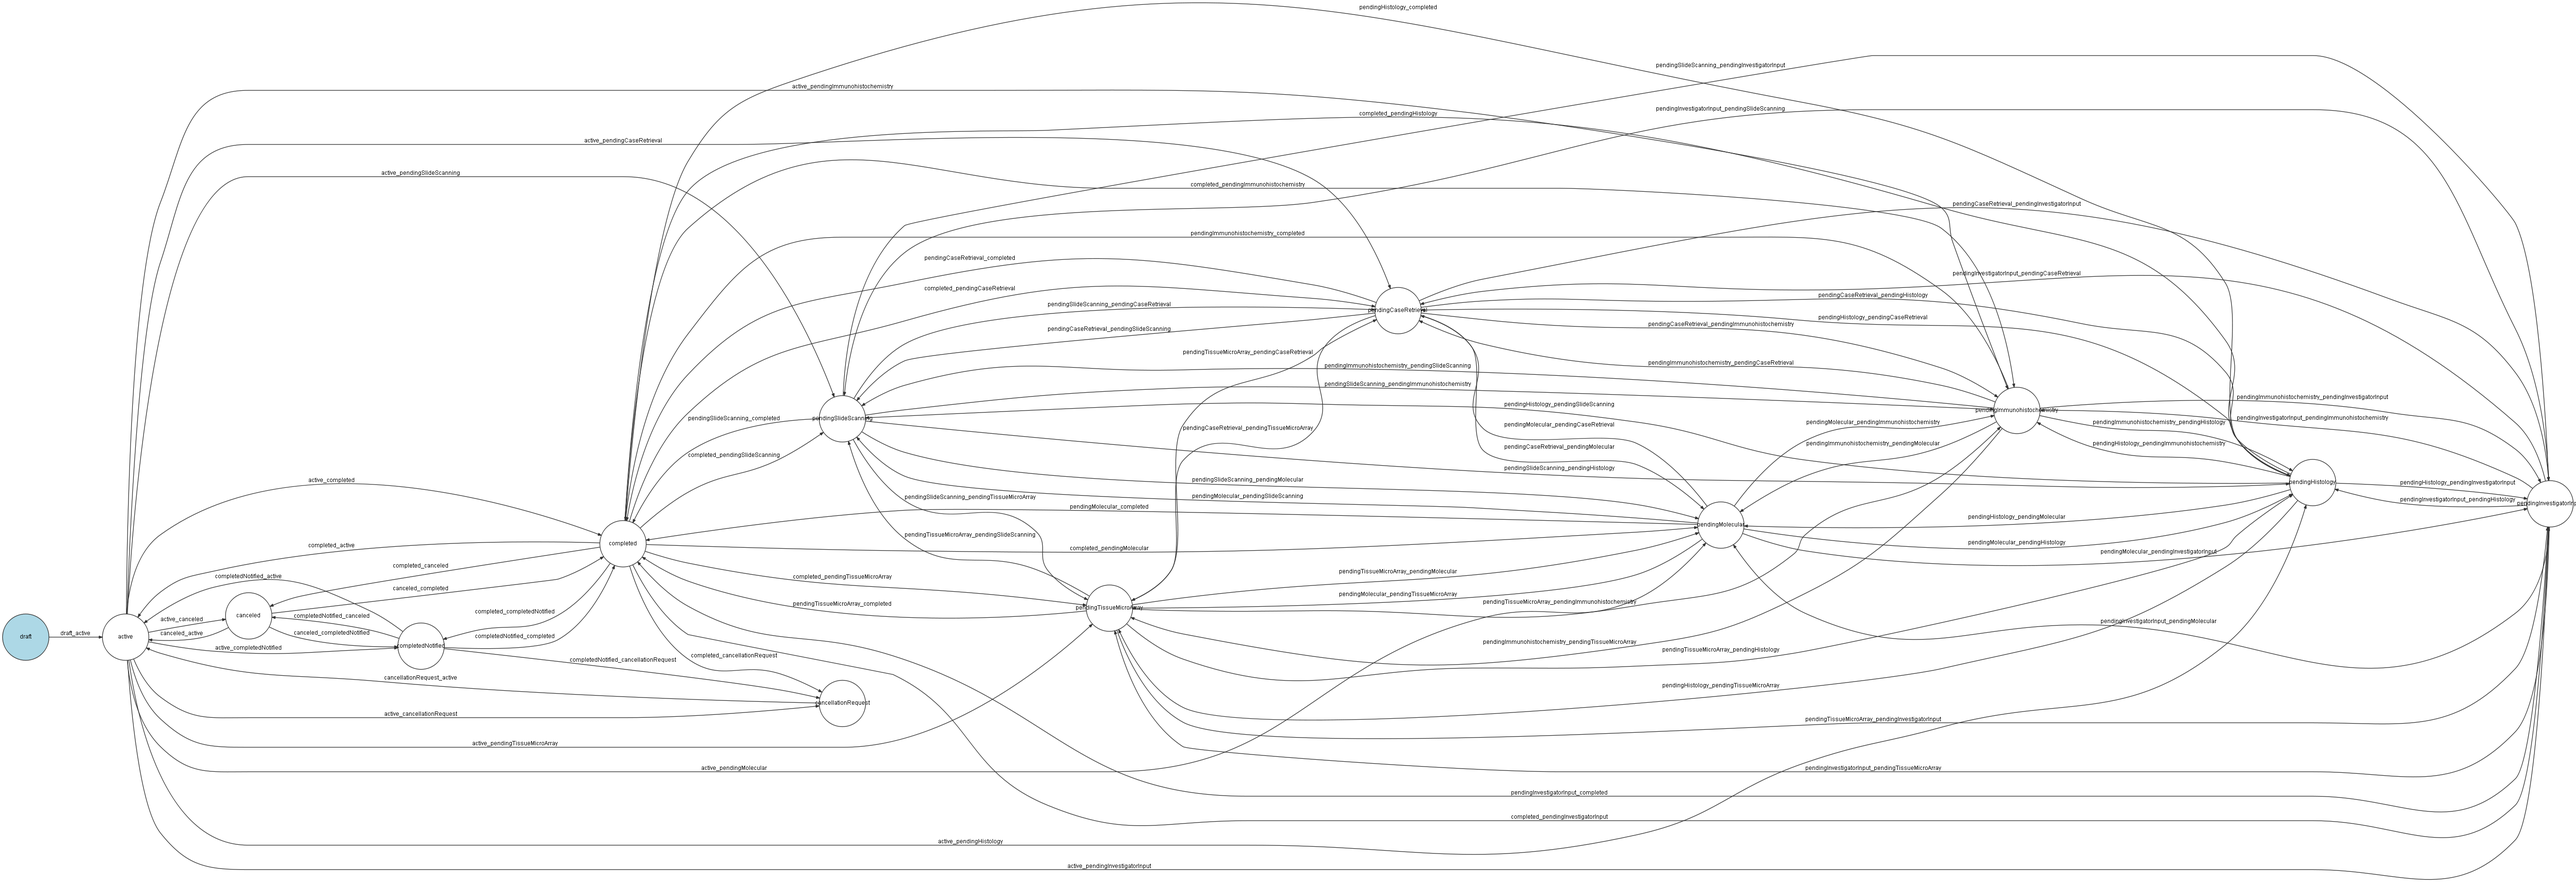
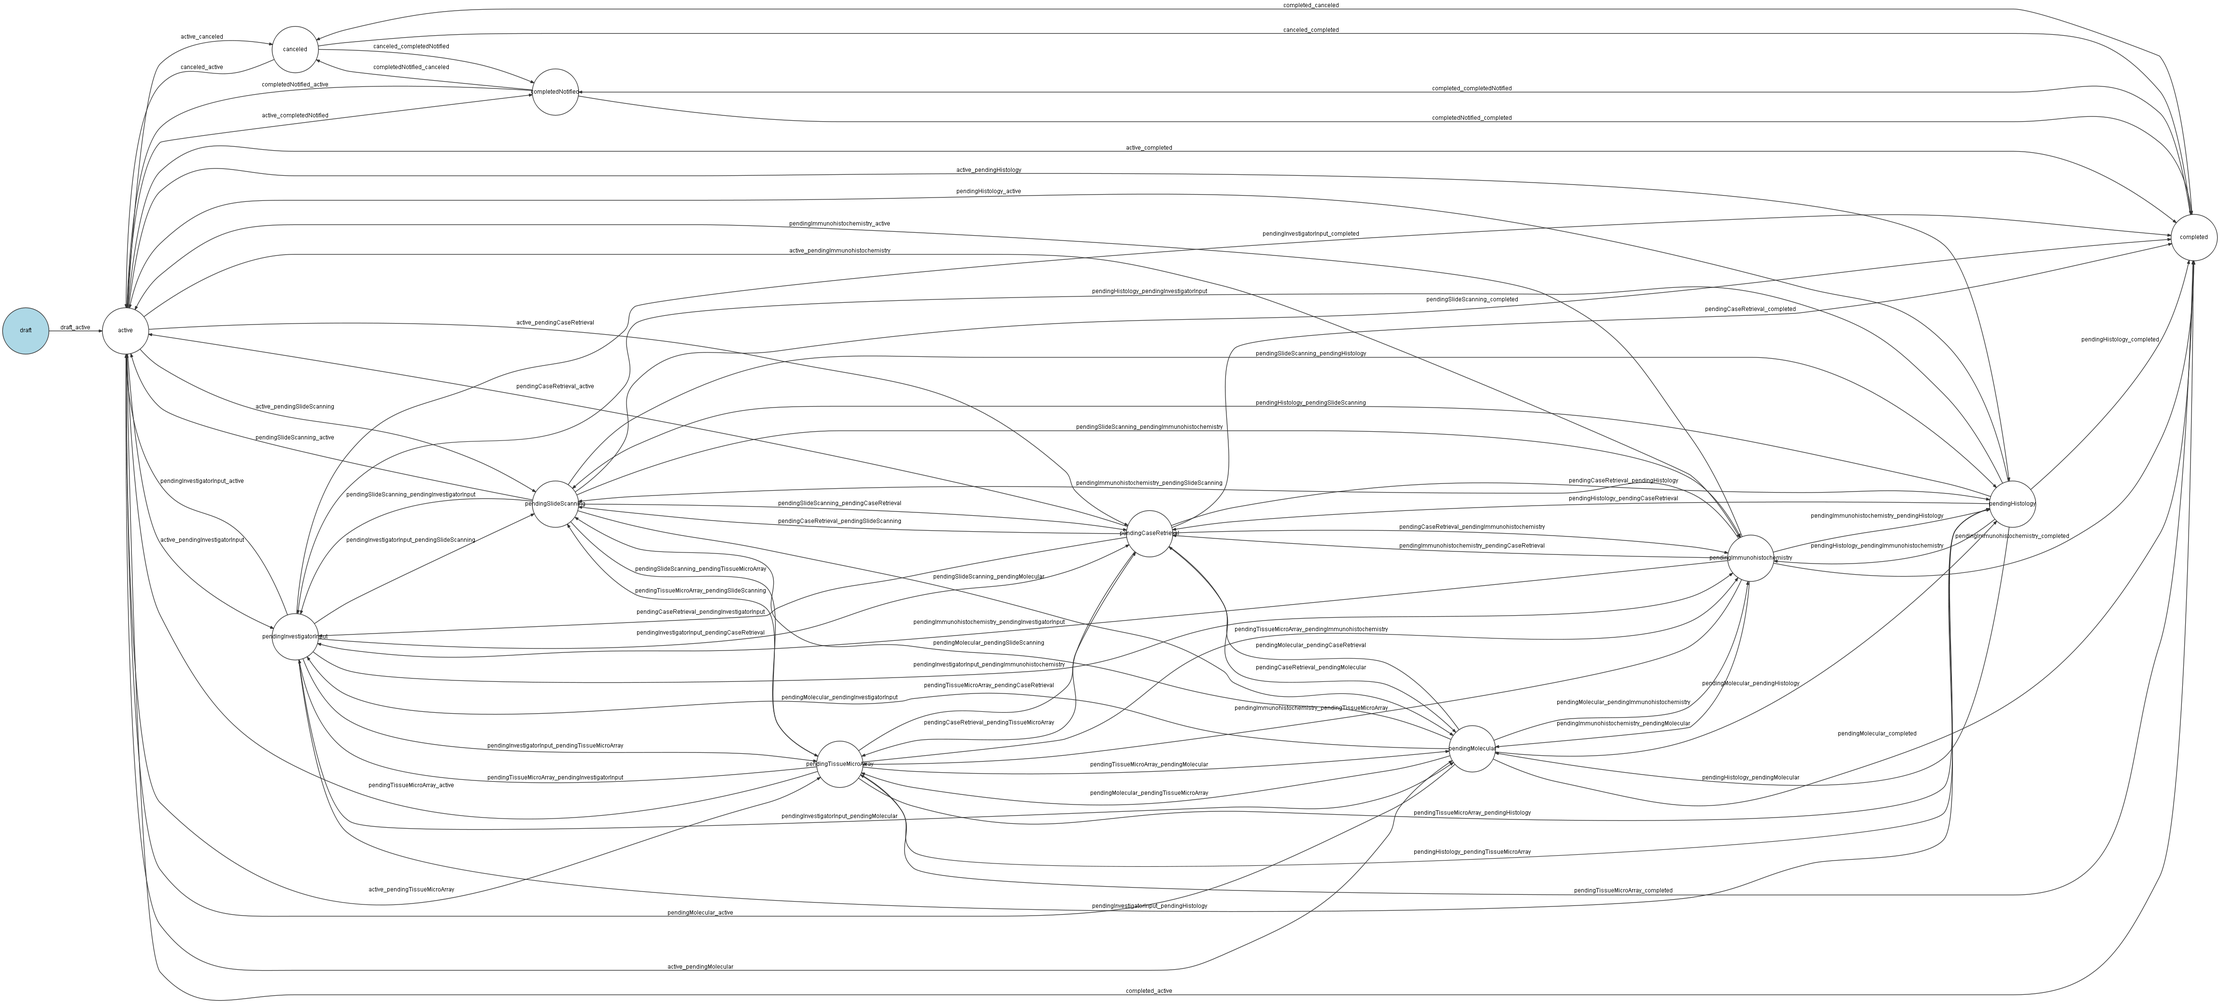
finished completion workflow 22(14)

diff --git a/Scanorders2/src/Oleg/TranslationalResearchBundle/Util/TransResRequestUtil.php b/Scanorders2/src/Oleg/TranslationalResearchBundle/Util/TransResRequestUtil.php
@@ -346,7 +346,6 @@ class TransResRequestUtil
 //            'draft',
 //            'active',
 //            'canceled',
-//            'cancellationRequest',
 //            'investigator',
 //            'histo',
 //            'ihc',
@@ -363,7 +362,6 @@ class TransResRequestUtil
         $stateArr = array(
             'draft',
             'active',
-            'cancellationRequest',
             'canceled',
             'completed',
             'completedNotified',
@@ -416,6 +414,11 @@ class TransResRequestUtil
 
 
     public function getProgressStateLabelByName( $stateName, $asButtonLabel=false ) {
+        if( $asButtonLabel ) {
+            $singleQuote = "&#39;";
+        } else {
+            $singleQuote = "'";
+        }
         $buttonLabel = null;
         switch ($stateName) {
             
@@ -425,15 +428,11 @@ class TransResRequestUtil
                 break;
             case "active":
                 $state = "Active";
-                $buttonLabel = "Revert to Active";
+                $buttonLabel = "Revert to ".$singleQuote."Active".$singleQuote;
                 break;
             case "canceled":
                 $state = "Canceled";
                 $buttonLabel = "Cancel";
-                break;
-            case "cancellationRequest":
-                $state = "Request Cancellation";
-                $buttonLabel = "Request Cancellation";
                 break;
             case "completed":
                 $state = "Completed";
@@ -444,7 +443,7 @@ class TransResRequestUtil
 
             //7 cases
             case "pendingInvestigatorInput":
-                $state = "Pending Investigator's Input";
+                $state = "Pending Investigator".$singleQuote."s Input";
                 break;
             case "pendingHistology":
                 $state = "Pending Histology";
@@ -481,6 +480,11 @@ class TransResRequestUtil
         return $state;
     }
     public function getBillingStateLabelByName( $stateName, $asButtonLabel=false ) {
+        if( $asButtonLabel ) {
+            $singleQuote = "&#39;";
+        } else {
+            $singleQuote = "'";
+        }
         $buttonLabel = null;
         switch ($stateName) {
             case "draft":
@@ -488,7 +492,7 @@ class TransResRequestUtil
                 break;
             case "active":
                 $state = "Active";
-                $buttonLabel = "Revert to Active";
+                $buttonLabel = "Revert to ".$singleQuote."Active".$singleQuote;
                 break;
             case "approvedInvoicing":
                 $state = "Approved/Ready for Invoicing";
@@ -537,7 +541,7 @@ class TransResRequestUtil
         }
         return "<".$stateName.">";
     }
-    public function getRequestLabelByStateMachineType( $transresRequest, $statMachineType ) {
+    public function getRequestLabelByStateMachineType( $transresRequest, $statMachineType) {
         if( $statMachineType == 'progress' ) {
             return $this->getRequestStateLabelByName($transresRequest->getProgressState(),$statMachineType);
         }
@@ -868,13 +872,6 @@ class TransResRequestUtil
                 if( $to == "canceled" ) {
                     //do not show canceled for non-admin and non-technician
                     if( !$this->secAuth->isGranted('ROLE_TRANSRES_ADMIN') && !$this->secAuth->isGranted('ROLE_TRANSRES_TECHNICIAN') ) {
-                        continue; //skip this $to state
-                    }
-                }
-
-                if( $to == "cancellationRequest" ) {
-                    //do not show cancellationRequest for admin and technician
-                    if( $this->secAuth->isGranted('ROLE_TRANSRES_ADMIN') || $this->secAuth->isGranted('ROLE_TRANSRES_TECHNICIAN') ) {
                         continue; //skip this $to state
                     }
                 }

diff --git a/Scanorders2/src/Oleg/TranslationalResearchBundle/Controller/RequestController.php b/Scanorders2/src/Oleg/TranslationalResearchBundle/Controller/RequestController.php
@@ -1077,23 +1077,10 @@ class RequestController extends Controller
             //"Pending" is all status except, Canceled, Completed, CompletedNotified
             if( $filterType == "All Pending Requests" ) {
                 $pendingRequestArr = $transresRequestUtil->getFilterPendingRequestArr($filterType);
-                
+
                 return $this->redirectToRoute(
                     'translationalresearch_request_index_filter',
                     $pendingRequestArr
-//                    array(
-//                        'filter[progressState][0]' => "active",
-//                        'filter[progressState][1]' => "investigator",
-//                        'filter[progressState][2]' => "histo",
-//                        'filter[progressState][3]' => "ihc",
-//                        'filter[progressState][4]' => "mol",
-//                        'filter[progressState][5]' => "retrieval",
-//                        'filter[progressState][6]' => "payment",
-//                        'filter[progressState][7]' => "slidescanning",
-//                        'filter[progressState][8]' => "block",
-//                        'filter[progressState][9]' => "other",
-//                        'title' => $filterType,
-//                    )
                 );
             }
             if( $filterType == "All AP/CP Pending Requests" ) {
@@ -1105,20 +1092,6 @@ class RequestController extends Controller
                 return $this->redirectToRoute(
                     'translationalresearch_request_index_filter',
                     $pendingRequestArr
-//                    array(
-//                        'filter[projectSpecialty][]' => $projectSpecialtyObject->getId(),
-//                        'filter[progressState][0]' => "active",
-//                        'filter[progressState][1]' => "investigator",
-//                        'filter[progressState][2]' => "histo",
-//                        'filter[progressState][3]' => "ihc",
-//                        'filter[progressState][4]' => "mol",
-//                        'filter[progressState][5]' => "retrieval",
-//                        'filter[progressState][6]' => "payment",
-//                        'filter[progressState][7]' => "slidescanning",
-//                        'filter[progressState][8]' => "block",
-//                        'filter[progressState][9]' => "other",
-//                        'title' => $filterType,
-//                    )
                 );
             }
             if( $filterType == "All Hematopathology Pending Requests" ) {
